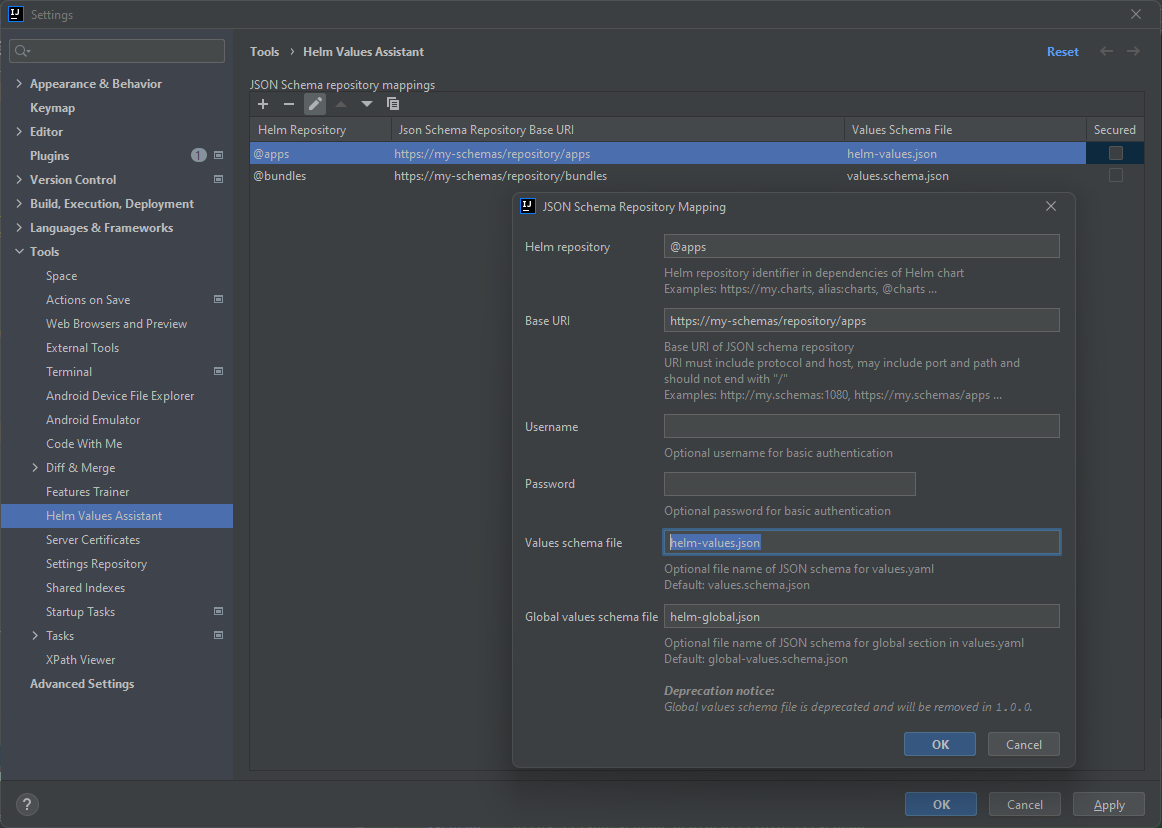
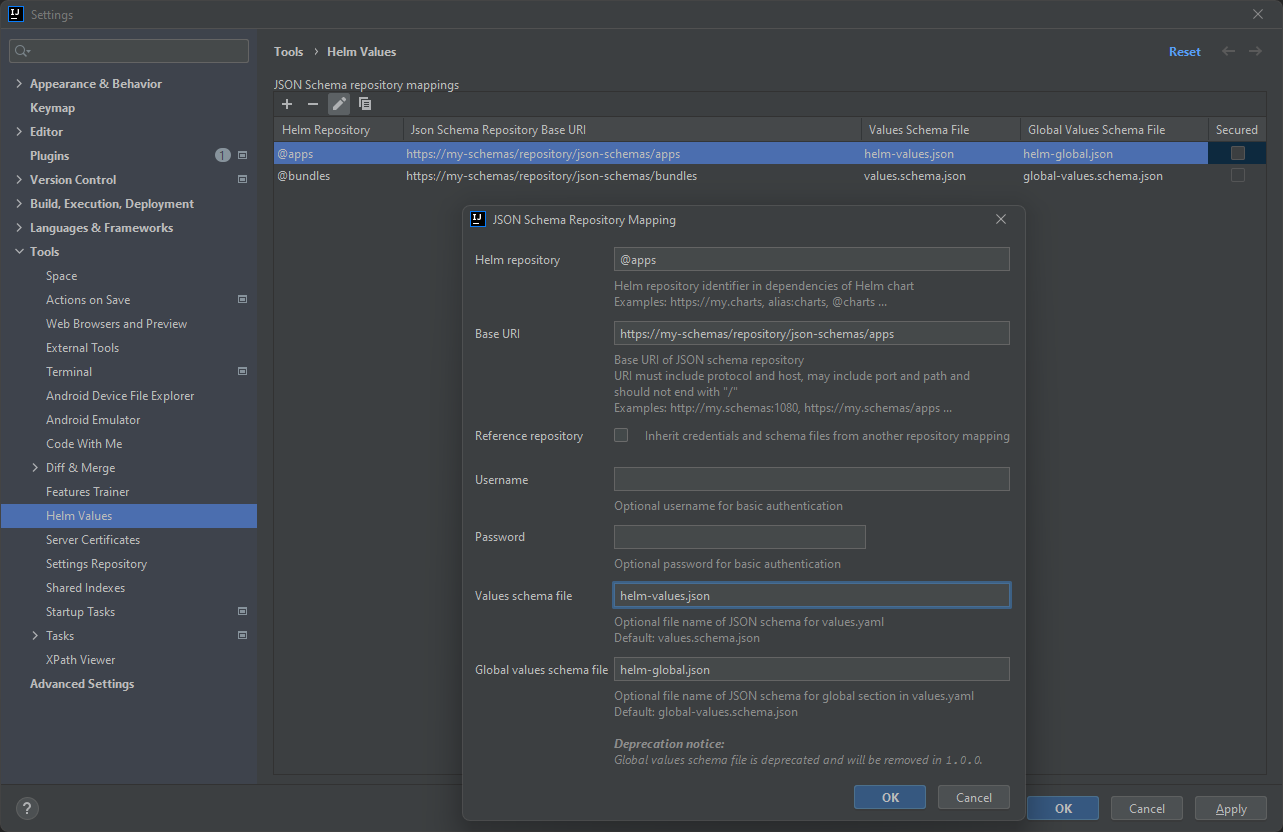
chore(intellij): update IntelliJ plugin documentation & screenshots

diff --git a/helm-values-intellij-plugin/README.md b/helm-values-intellij-plugin/README.md
@@ -143,9 +143,18 @@ JSON schema repositories can be secured with basic authentication.
 
 Each schema repository can be configured with user and password in plugin settings.
 
-![settings](screenshots/settings-security.png "Custom JSON schema file names in settings")
+![settings](screenshots/settings-security.png "Security credentials in settings")
 
 *:bulb: credentials are stored securely in IntelliJ password safe.*
+
+### Reference repository mapping
+
+A reference repository mapping can be defined for each repository in plugin settings.
+
+When selected, credentials and schema file names are inherited from the reference repository mapping.\
+Inherited configuration is displayed in read-only in editor.
+
+![settings](screenshots/settings-reference.png "Reference repository mapping in settings")
 
 ## Screenshots
 
